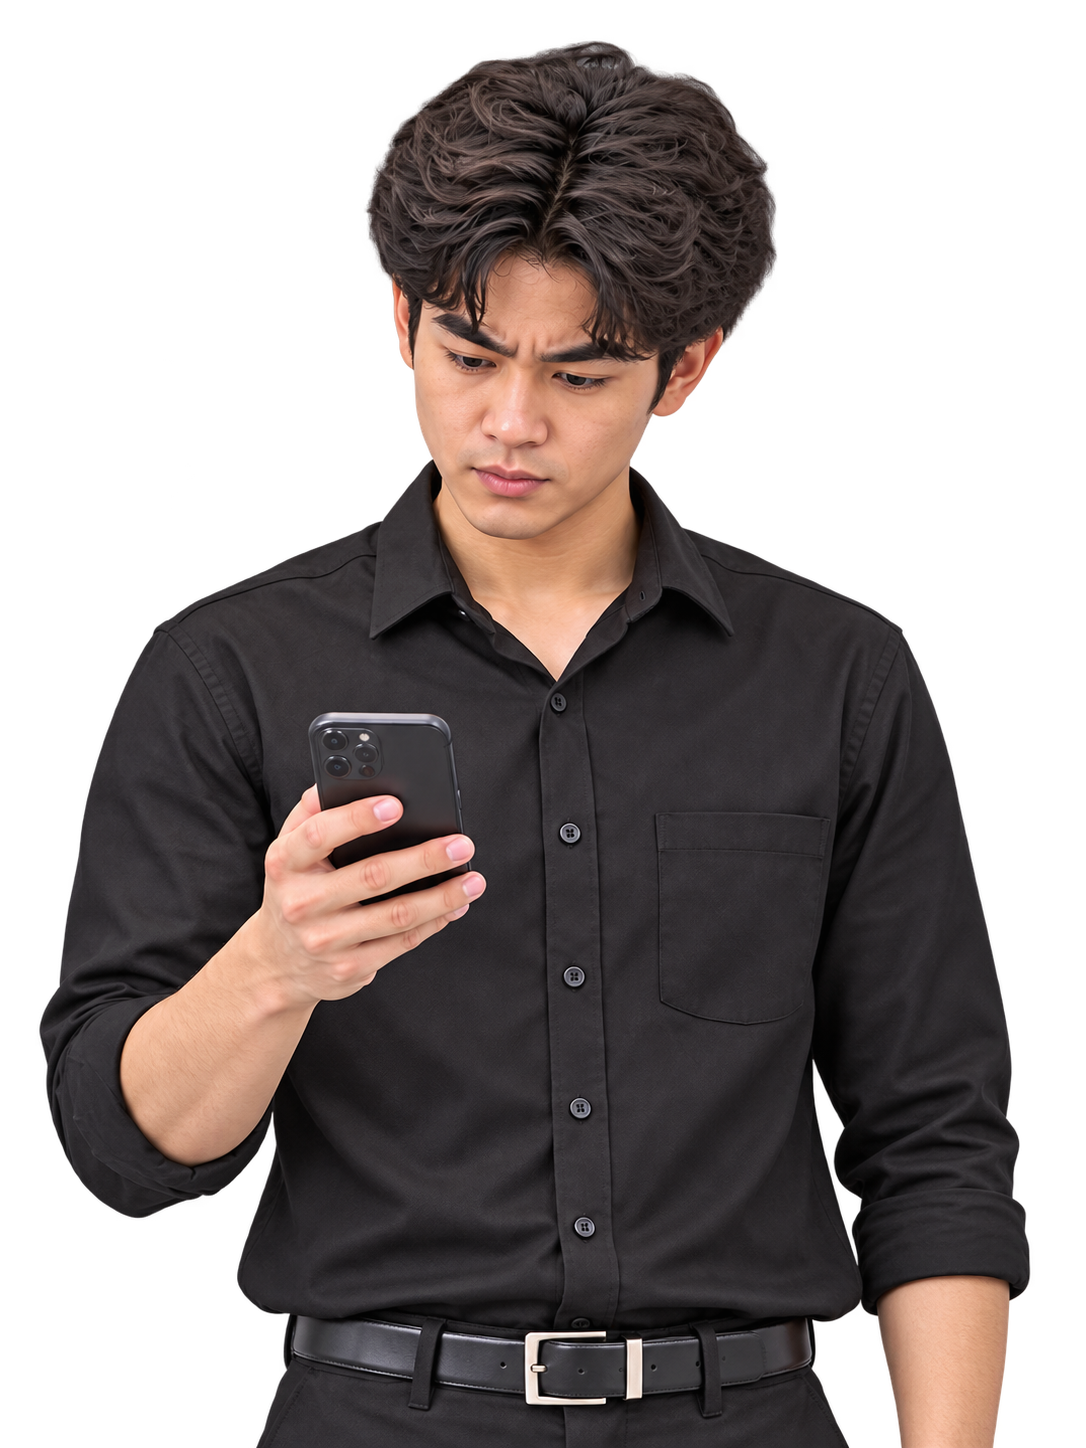
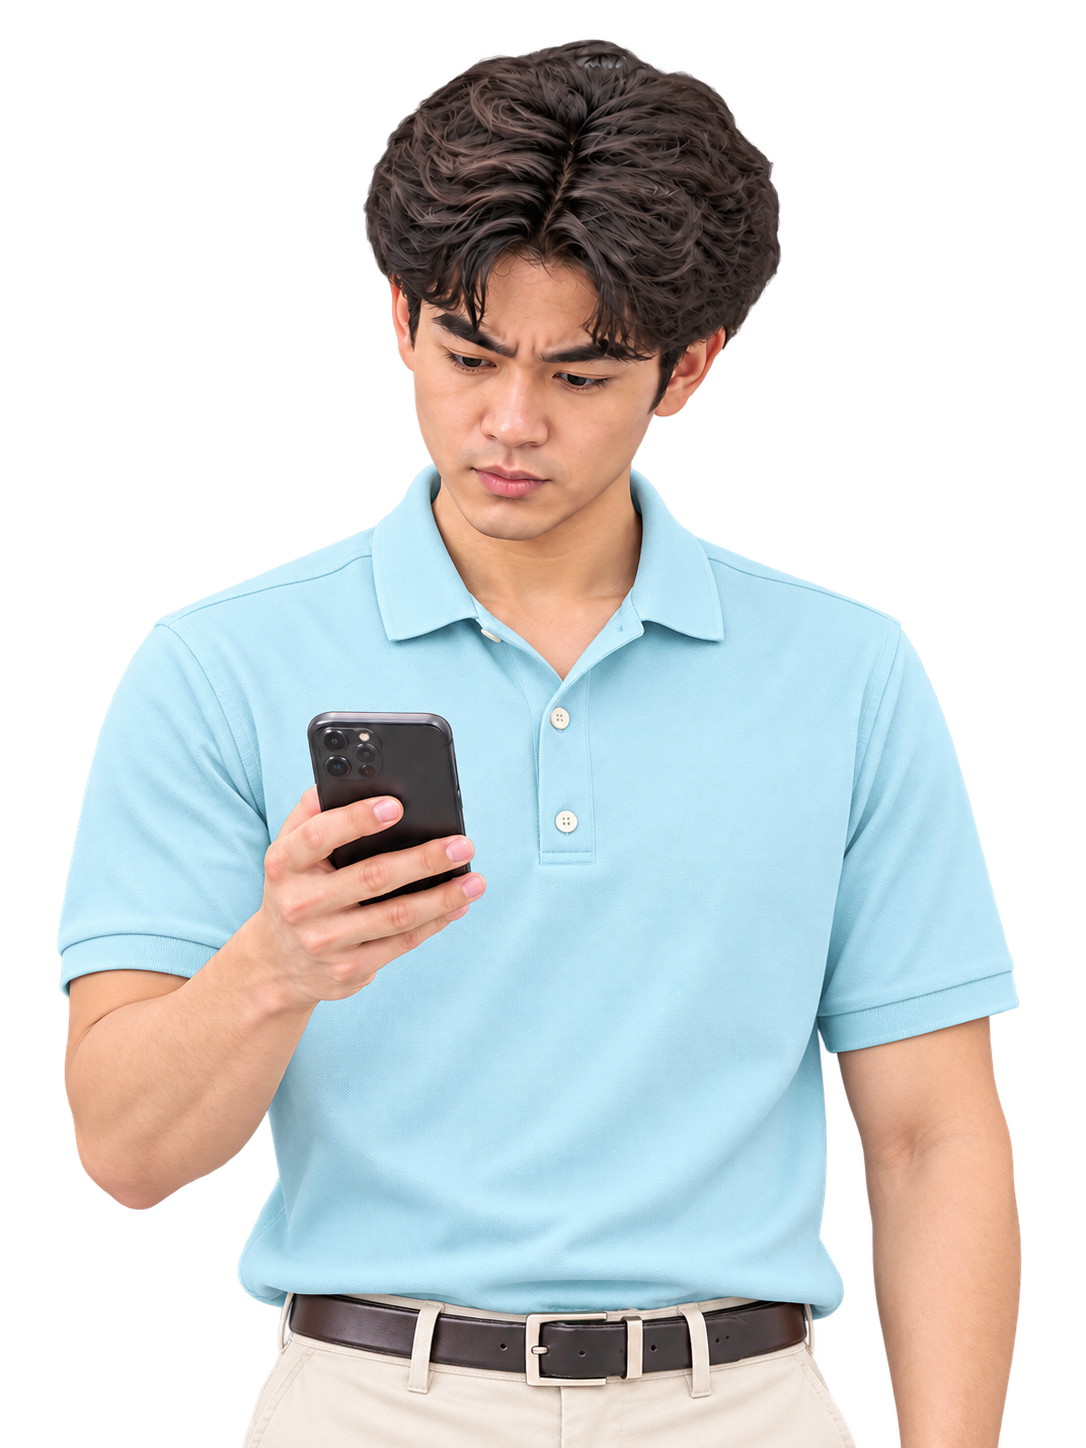
VI01: the worker in the light-blue polo — the seven _1 images swapped in, their measured bounds (feet, head, solid centre) updated

diff --git a/src/episodes/vi01-passive-income/scenes/ColdOpen.tsx b/src/episodes/vi01-passive-income/scenes/ColdOpen.tsx
@@ -43,9 +43,9 @@ const WORD_Y = GROUP_BOTTOM - CAL_H_AFTER - SPLIT.gap - SPLIT.word / 2;
 /** Motion blur on the rolling dates: px of vertical blur per px/frame of travel, and its ceiling. */
 const ROLL_BLUR = { perSpeed: 0.35, max: 22 };
 /** "Orang Kerja.png" (INV01 - Passive Income/Gambar), 1312 × 1199. */
-const ORANG_KERJA = 1312 / 1199;
+const ORANG_KERJA = 1448 / 1086; // OrangKerja_1.png — the polo version, 1448 × 1086
 /** …whose solid pixels stop at row 1138: the feet, where its contact shadow goes. */
-const ORANG_KERJA_FLOOR = 1138 / 1199;
+const ORANG_KERJA_FLOOR = 1068 / 1086;
 /** The photo's height: it rises from below the frame, centred left to right ("maksudku tengah horizontal"). */
 const PHOTO_H = 560;
 /** Far enough up that the pair is gone — GAJIAN's top is the highest point. */
@@ -91,8 +91,8 @@ const SPEND_ICONS: IconName[][] = [
 const BAYANGIN = { y: 150, size: 64, weight: 700, gap: 14 };
 /** "Layoff.png" (INV01 - Passive Income/Gambar), 1086 × 1448 — the figure stands in columns 378–840, feet on row 1390. */
 const LAYOFF = 1086 / 1448;
-const LAYOFF_SOLID_CX = (378 + 840) / 2 / 1086;
-const LAYOFF_FLOOR = 1390 / 1448;
+const LAYOFF_SOLID_CX = (392 + 868) / 2 / 1086; // Layoff_1.png
+const LAYOFF_FLOOR = 1431 / 1448;
 /**
  * THE CLOSE-UP: "perbesar orangnya hingga yang muncul di preview dari kepala
  * hingga dada" — rows 40 (above the hair) to 580 (the chest) of the 1448-row
@@ -108,9 +108,9 @@ const CLOSE_FROM = BAYANGIN.y + BAYANGIN.size * 1.1 * 2 + BAYANGIN.gap + 20;
 const CLOSE_H = ((theme.captionBand.top - CLOSE_FROM) * CLOSE.rows) / (CLOSE.chest - CLOSE.top);
 const CLOSE_TOP = CLOSE_FROM - (CLOSE.top / CLOSE.rows) * CLOSE_H;
 /** Head columns (the middle of the head's solid span) in each file. */
-const HEAD_U = { layoff: 515 / 1086, bingung: 595 / 1086 };
+const HEAD_U = { layoff: 533 / 1086, bingung: 615 / 1086 }; // the _1 (polo) files
 /** "OrangBingung.png" — same 1086 × 1448 canvas; feet on row 1416. */
-const BINGUNG_FLOOR = 1416 / 1448;
+const BINGUNG_FLOOR = 1444 / 1448;
 /** TA11's ground (TAMistakes f15104): the grid fades out toward the logo row and the caption band. */
 const GROUND_RAMP =
   `linear-gradient(to bottom, transparent ${theme.logoZone.height}px, black ${theme.logoZone.height * 2}px, ` +
@@ -526,7 +526,7 @@ const CLOCK = { cx: 960, cy: 500, r: 230, label: 72, above: 170, below: 830, exi
  */
 const HANDS = { hour: 65, minute: 60, turn: 120 };
 /** "OrangMikir.png", 1086 × 1448: seated, feet on row 1365, solid from row 64, columns 163–987. */
-const MIKIR = { aspect: 1086 / 1448, h: 620, feet: 930, floor: 1365 / 1448, solidCx: 575 / 1086, top: 64 / 1448, left: 163 / 1086, right: 987 / 1086 };
+const MIKIR = { aspect: 1086 / 1448, h: 620, feet: 930, floor: 1408 / 1448, solidCx: 594 / 1086, top: 66 / 1448, left: 168 / 1086, right: 1020 / 1086 }; // OrangMikir_1.png
 const MIKIR_X = theme.canvas.width / 2 - (MIKIR.solidCx - 0.5) * MIKIR.h * MIKIR.aspect;
 const MIKIR_Y = MIKIR.feet + (1 - MIKIR.floor) * MIKIR.h;
 /** What a grown-up carries — fifty of them, around the man thinking. */

diff --git a/src/episodes/vi01-passive-income/scenes/PartOne.tsx b/src/episodes/vi01-passive-income/scenes/PartOne.tsx
@@ -38,12 +38,12 @@ const fmtAsset = (n: number) => Math.round(n).toLocaleString("en-US");
 const ASSET = { top: 330, w: 1320, h: 500, pad: 64, btn: 132, label: 40, total: 92, value: 56 };
 
 /**
- * "Orang Resign.png", 1086 × 1448: solid from row 11, feet on row 1417,
+ * "OrangResign_1.png" (the polo version), 1086 × 1448: solid from row 11, feet on row 1425,
  * columns 256–870. "Perbesar gambarnya di kepala hingga pinggul" — the head
  * starts under the title and the hips (row 720) meet the caption band, where
  * the picture is cut off.
  */
-const RESIGN = { aspect: 1086 / 1448, rows: 1448, top: 11, hips: 720, feet: 1417, solidCx: 563 / 1086, from: 330 };
+const RESIGN = { aspect: 1086 / 1448, rows: 1448, top: 11, hips: 720, feet: 1425, solidCx: 583 / 1086, from: 330 }; // OrangResign_1.png
 const RESIGN_H = ((theme.captionBand.top - RESIGN.from) * RESIGN.rows) / (RESIGN.hips - RESIGN.top);
 /**
  * The three "Tetap …", centred left to right: a to-do box, the words typed in
@@ -780,7 +780,7 @@ export const SC07 = () => {
  * unmirrored, so he faces the office. Both stand on the same floor line.
  */
 const OFFICE = { aspect: 1086 / 1448, h: 740, x: 520, feet: 940, floor: 1444 / 1448, coinY: 420 };
-const WORKER8 = { aspect: 1312 / 1199, h: 500, x: 1360, feet: 940, floor: 1139 / 1199, top: 70 / 1199 };
+const WORKER8 = { aspect: 1448 / 1086, h: 500, x: 1360, feet: 940, floor: 1068 / 1086, top: 18 / 1086 }; // OrangKerja_1.png
 /** The worker's solid top, and the balance card 40 px above it ("40 px di atas Orang Kerja"). */
 const WORKER8_TOP = WORKER8.feet - (WORKER8.floor - WORKER8.top) * WORKER8.h;
 /**
